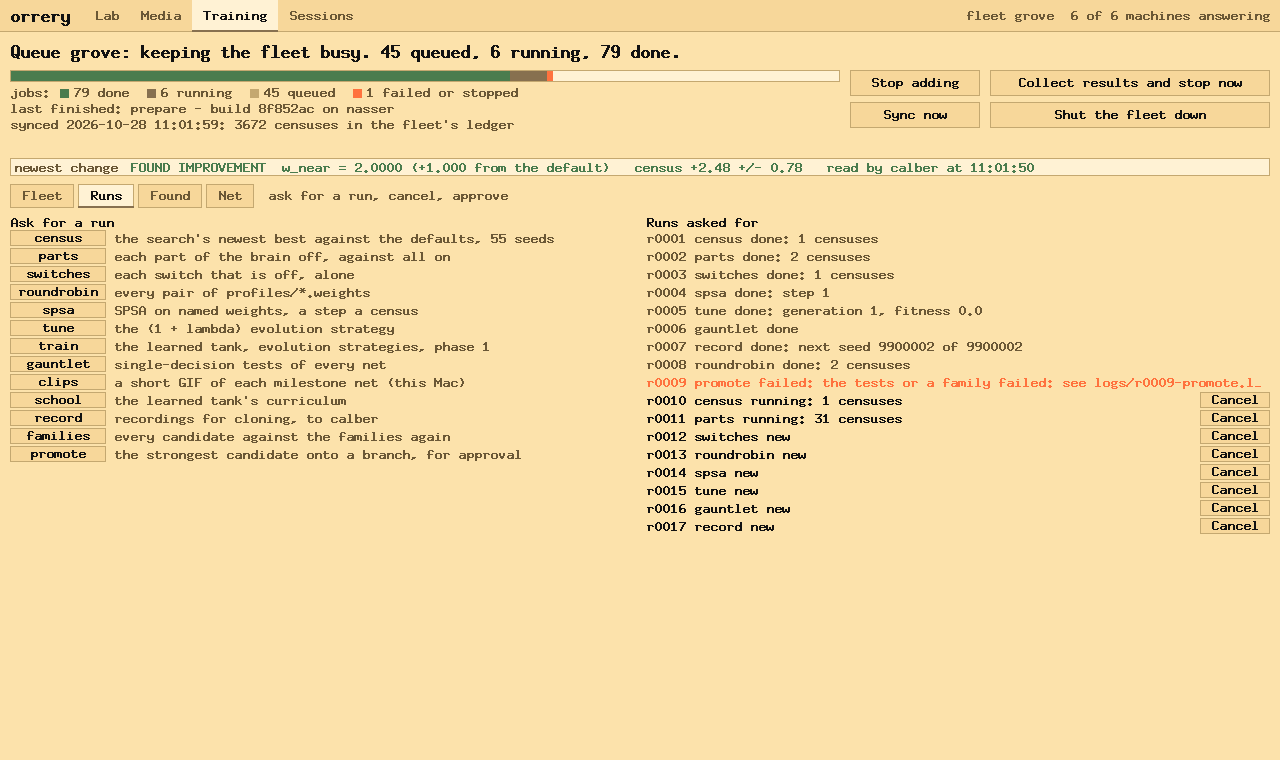
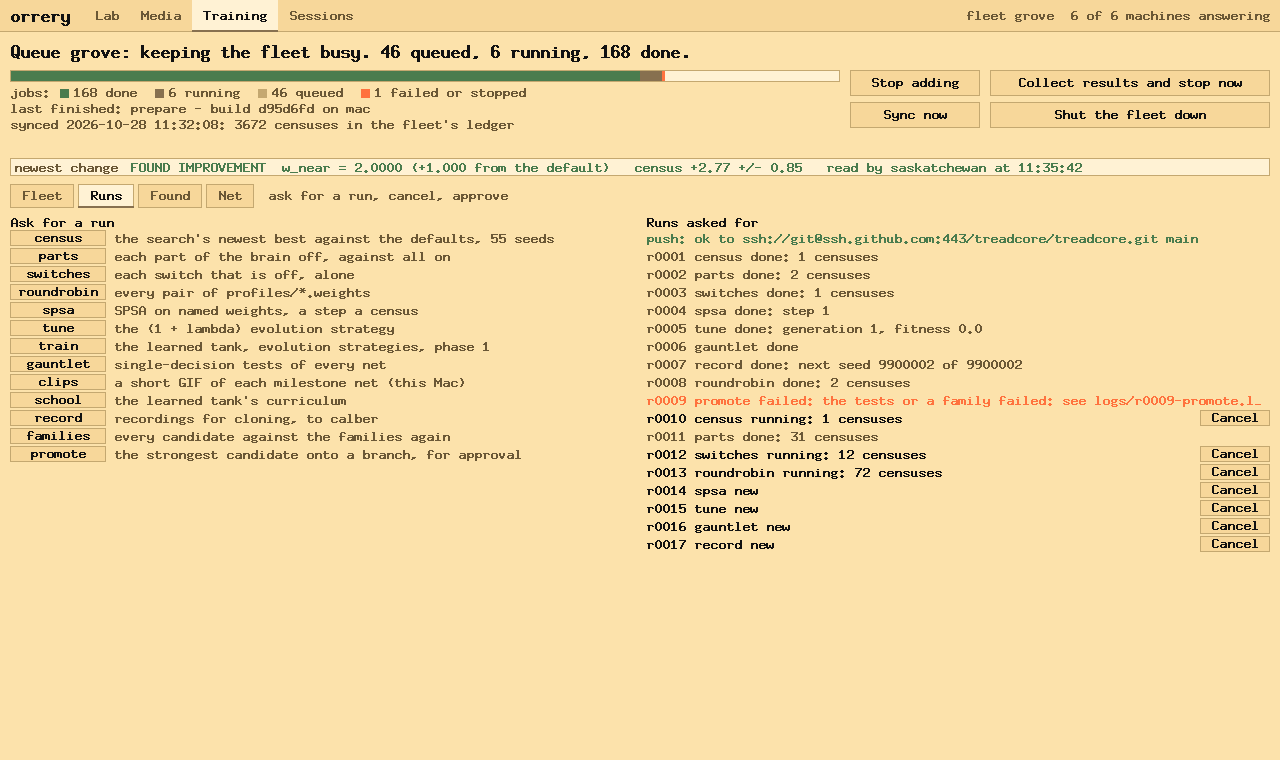
Push permission is part of a template -- Approve is a push, so a plan names where a promotion lands ("push": {"remote", "branch"}) and the coordinator must be able to push there (Paul: "it needs to be part of orrery that the template for orrery and treadcore needs to have push permission"). Checked 

diff --git a/docs/user-guide.html b/docs/user-guide.html
@@ -527,10 +527,18 @@ ol.refs li { margin-bottom: .45em; }
   every machine fast-forwards its own checkout and builds the commit once, in its own folder. A
   census plays the binary its machine built for that commit and never rebuilds (a shared build
   folder once handed a census another commit's binary; LR 117).</p>
-  <h3>Nothing is promoted by a machine</h3>
+  <h3>Nothing is promoted by a machine; Approve is a push</h3>
   <p>A candidate is prepared on a branch: its numbers written into <code>weights.rs</code>, the
   brain's tests and the families run, the commit pushed as the branch. It reaches main only when
-  a person presses Approve.</p>
+  a person presses Approve, and <b>Approve is itself a push</b>: orrery pushes the prepared commit
+  to the project's branch as a fast-forward, and every machine builds it at the next top-up.</p>
+  <p><b>So a template must have push permission.</b> Its <code>plan.json</code> names where a promotion
+  lands, <code>"push": {"remote": "origin", "branch": "main"}</code>, and the coordinator (the machine
+  running orrery) must hold a key that can push there. Orrery checks it with a dry-run push, which
+  reaches the remote and proves the key without changing anything: at every sync, before every
+  promotion and before every approval. The result is on the Runs page, green when it is permitted.
+  Without it no promotion starts, because one could never land. treadcore's is
+  <code>ssh://git@ssh.github.com:443/treadcore/treadcore.git main</code>, pushed from the Mac.</p>
 </section>
 
 <section id="interface">
@@ -632,7 +640,7 @@ ol.refs li { margin-bottom: .45em; }
 <section id="procedures">
   <p class="kicker">XIII · Operating procedures</p>
   <h2>Day to day</h2>
-  <div class="tablewrap"><table><caption>Table XIII · procedures</caption><thead><tr><th>to</th><th>do</th><th>applies to</th></tr></thead><tbody><tr><td>start</td><td>Start the queue, or <code>fleet-queue.py Q ensure</code></td><td><span class="use or">orchestration</span></td></tr><tr><td>watch</td><td>Training · Fleet; Found for results; Sessions for a machine's own state</td><td><span class="use or">orchestration</span></td></tr><tr><td>ask for a measurement</td><td>a button on Runs, or <code>new KIND k=v</code></td><td><span class="use tc">treadcore</span></td></tr><tr><td>add a machine</td><td>add it to <code>config.json</code>; it builds the newest commit and takes work</td><td><span class="use or">orchestration</span></td></tr><tr><td>set up a CUDA machine</td><td><code>sudo bash cuda-node.sh</code> on it: driver, CUDA 12.9, tmux, copal-tm</td><td><span class="use or">orchestration</span></td></tr><tr><td>take a machine out</td><td>delete it from <code>config.json</code>; its lane ends after its job</td><td><span class="use or">orchestration</span></td></tr><tr><td>bring a change into treadcore</td><td>promote, read the prepared branch, Approve</td><td><span class="use tc">treadcore</span></td></tr><tr><td>end the day</td><td>Stop adding, or Shut the fleet down</td><td><span class="use or">orchestration</span></td></tr><tr><td>resume in a new session</td><td><code>fleet-queue.py Q status</code> and <code>runs</code>; Start the queue if stopped</td><td><span class="use or">orchestration</span></td></tr></tbody></table></div>
+  <div class="tablewrap"><table><caption>Table XIII · procedures</caption><thead><tr><th>to</th><th>do</th><th>applies to</th></tr></thead><tbody><tr><td>start</td><td>Start the queue, or <code>fleet-queue.py Q ensure</code></td><td><span class="use or">orchestration</span></td></tr><tr><td>watch</td><td>Training · Fleet; Found for results; Sessions for a machine's own state</td><td><span class="use or">orchestration</span></td></tr><tr><td>ask for a measurement</td><td>a button on Runs, or <code>new KIND k=v</code></td><td><span class="use tc">treadcore</span></td></tr><tr><td>add a machine</td><td>add it to <code>config.json</code>; it builds the newest commit and takes work</td><td><span class="use or">orchestration</span></td></tr><tr><td>set up a CUDA machine</td><td><code>sudo bash cuda-node.sh</code> on it: driver, CUDA 12.9, tmux, copal-tm</td><td><span class="use or">orchestration</span></td></tr><tr><td>take a machine out</td><td>delete it from <code>config.json</code>; its lane ends after its job</td><td><span class="use or">orchestration</span></td></tr><tr><td>bring a change into treadcore</td><td>promote, read the prepared branch, Approve (a push to main)</td><td><span class="use tc">treadcore</span></td></tr><tr><td>check push permission</td><td>the push line on Runs, or <code>fleet-queue.py Q push-check</code></td><td><span class="use or">orchestration</span></td></tr><tr><td>end the day</td><td>Stop adding, or Shut the fleet down</td><td><span class="use or">orchestration</span></td></tr><tr><td>resume in a new session</td><td><code>fleet-queue.py Q status</code> and <code>runs</code>; Start the queue if stopped</td><td><span class="use or">orchestration</span></td></tr></tbody></table></div>
 </section>
 
 <section id="limits">
@@ -645,7 +653,8 @@ ol.refs li { margin-bottom: .45em; }
     <li>The tile coverage ledger and the reward-term weights are designs here, not yet code.</li>
     <li>The grove machines run no Copal fleet agent, so the Lab view sees them as off bus.</li>
     <li>Orrery's planner is treadcore's; a second project would add its own <code>tools/plans/NAME.py</code>
-    and view, and the engine and console would not change.</li>
+    and view, and the engine and console would not change. Its template must name a remote and a branch
+    the coordinator can push to, or nothing it finds can be approved.</li>
   </ul>
 </section>
 

diff --git a/tools/plans/treadcore.py b/tools/plans/treadcore.py
@@ -23,6 +23,12 @@ defaults); new jobs use the newest, and a job runs on the build it was
 planned with. Before building, a host fast-forwards its own checkout
 (~/code/treadcore) when it is clean and on main.
 
+PUSH PERMISSION. A template's plan.json names the remote and branch a
+promotion lands on ("push": {"remote": "origin", "branch": "main"}), and the
+coordinator must be able to push there: Approve is a push. It is checked by
+a dry-run push at each sync and before every promotion and approval
+(plan/push.json; `push-check`); without it no promotion starts.
+
 FOUR KINDS OF WORK share the one queue:
 
 - weights: the scripted brain's named weights (weights.rs), a census trial
@@ -669,7 +675,8 @@ class Plan:
         by = {}
         for r in csv.DictReader(open(fleet), delimiter="\t"):
             by[r["host"]] = by.get(r["host"], 0) + 1
-        summary = {"t": time.strftime("%Y-%m-%dT%H:%M:%S"), "rows": sum(by.values()), "by_host": by, "hosts": lines}
+        ps = self.push_check() if not only else load(os.path.join(self.pd, "push.json"), {})
+        summary = {"t": time.strftime("%Y-%m-%dT%H:%M:%S"), "rows": sum(by.values()), "by_host": by, "hosts": lines, "push": ps}
         save(os.path.join(out, "sync.json"), summary)
         print("sync: fleet.tsv %d rows (%s); read: %s" % (summary["rows"], ", ".join("%s %d" % kv for kv in sorted(by.items())), "; ".join(lines)))
 
@@ -1062,6 +1069,29 @@ class Plan:
         return jobs
 
 
+    # ---- push permission: what a template must have for Approve to mean anything ----
+    def push_target(self):
+        p = self.cfg.get("push") or {}
+        return p.get("remote", "origin"), p.get("branch", "main")
+
+    def push_check(self):
+        """Can this coordinator push the project's branch? A dry-run push of
+        the remote's own head to it: it reaches the remote, proves the
+        credentials, and changes nothing. Kept in plan/push.json."""
+        remote, branch = self.push_target()
+        url = run(["git", "-C", self.tc, "remote", "get-url", "--push", remote]).stdout.strip()
+        run(["git", "-C", self.tc, "fetch", "-q", remote], timeout=120)
+        head = run(["git", "-C", self.tc, "rev-parse", "%s/%s" % (remote, branch)]).stdout.strip()
+        if not url or not head:
+            ok, detail = False, "no remote %s with a branch %s in %s" % (remote, branch, self.tc)
+        else:
+            r = run(["git", "-C", self.tc, "push", "--dry-run", "--porcelain", remote, "%s:refs/heads/%s" % (head, branch)], timeout=120)
+            ok = r.returncode == 0
+            detail = "ok" if ok else (r.stderr.strip().splitlines() or ["refused"])[-1][:200]
+        st = {"ok": ok, "remote": remote, "url": url, "branch": branch, "detail": detail, "checked": time.strftime("%Y-%m-%dT%H:%M:%S")}
+        save(os.path.join(self.pd, "push.json"), st)
+        return st
+
     # ---- promotion: a candidate prepared for treadcore, approved by Paul ---------
     def evidence(self):
         """Every candidate with its weights and evidence: the census, the two
@@ -1113,6 +1143,12 @@ class Plan:
         if st["status"] in ("prepared", "approved", "rejected"):
             return []
         if st["status"] == "new":
+            # Approve pushes the branch to the project's remote: without
+            # push permission a promotion could never land, so none starts.
+            ps = self.push_check()
+            if not ps["ok"]:
+                self.rsave(rid, {"status": "failed", "why": "no push permission to %s %s (%s): give this coordinator a key that can push, then ask again" % (ps["url"] or ps["remote"], ps["branch"], ps["detail"])})
+                return []
             name = p.get("candidate", "@strongest")
             if name == "@strongest":
                 name, ev = self.strongest()
@@ -1160,9 +1196,9 @@ class Plan:
                 "cargo test -q -p treadcore-brain --release -- --ignored every_family_holds_its_floor --nocapture > $O/families-full.txt 2>&1 || { grep -E '^family|panicked|under' $O/families-full.txt; echo 'a family fell under its floor: not committed'; exit 1; }\n"
                 "grep -E '^family' $O/families-full.txt > $O/families.txt; cat $O/families.txt\n"
                 "git add source/treadcore-brain/src/weights.rs && echo %s | base64 -d > $O/msg.txt && git commit -q -F $O/msg.txt\n"
-                "git push -q origin $B\n"
+                "git push -q %s $B\n"
                 "git rev-parse HEAD > $O/commit.txt; echo \"prepared $(cat $O/commit.txt) on $B\"\n"
-            ) % (self.home, rid, branch, out, b1, b2)
+            ) % (self.home, rid, branch, out, b1, b2, self.push_target()[0])
             st = {"status": "running", "job": jid, "candidate": name, "branch": branch, "changed": changed, "evidence": {k: ev.get(k) for k in ("census", "held", "families")}}
             self.rsave(rid, st)
             return [{"id": jid, "kind": "promote", "title": "promote %s: tests and families on a branch" % name, "needs": "host:" + host,
@@ -1187,10 +1223,12 @@ class Plan:
         st = self.rstate(rid)
         if st.get("status") != "prepared" or not st.get("commit"):
             raise SystemExit("%s is not a prepared promotion (%s)" % (rid, st.get("status")))
-        r = run(["git", "-C", self.tc, "push", "origin", "%s:refs/heads/main" % st["commit"]])
+        remote, branch = self.push_target()
+        r = run(["git", "-C", self.tc, "push", remote, "%s:refs/heads/%s" % (st["commit"], branch)])
         if r.returncode != 0:
             raise SystemExit("main has moved since it was prepared (a fast-forward only): ask for the promotion again\n" + r.stderr[-300:])
-        run(["git", "-C", self.tc, "fetch", "-q", "origin"])
+        run(["git", "-C", self.tc, "fetch", "-q", remote])
+        self.push_check()
         st["status"] = "approved"
         st["detail"] = "on main at %s" % st["commit"][:7]
         st["approved"] = time.strftime("%Y-%m-%dT%H:%M:%S")
@@ -1297,6 +1335,10 @@ if __name__ == "__main__":
         print(json.dumps(p.runs_status(), indent=1))
     elif cmd == "approve":
         p.approve(sys.argv[3])
+    elif cmd == "push-check":
+        st = p.push_check()
+        print("push to %s %s: %s" % (st["url"] or st["remote"], st["branch"], "ok" if st["ok"] else "NO: " + st["detail"]))
+        sys.exit(0 if st["ok"] else 1)
     elif cmd == "evidence":
         ev = p.evidence()
         for k, v in sorted(ev.items(), key=lambda kv: -(kv[1]["held_mean"] or -99)):

diff --git a/src/training.rs b/src/training.rs
@@ -146,6 +146,9 @@ pub struct Queue {
     pub lead_hosts: Vec<(String, i64, i64)>,
     /// The runs a person asked for.
     pub runs: Vec<RunRow>,
+    /// Push permission to the project's branch: (ok, "url branch", detail).
+    /// Approve is a push, so a template must have it.
+    pub push: Option<(bool, String, String)>,
 }
 
 /// One coefficient one census moved: what, to what, how far from its
@@ -338,6 +341,9 @@ impl Model {
                         _ => None,
                     })
                     .collect(),
+                push: q.get("push").filter(|p| p.get("ok").is_some()).map(|p| {
+                    (p.get("ok").and_then(|b| b.as_bool()).unwrap_or(false), format!("{} {}", s(p, "url"), s(p, "branch")), s(p, "detail"))
+                }),
                 runs: arr(q, "runs")
                     .iter()
                     .map(|r| RunRow { id: s(r, "id"), kind: s(r, "kind"), status: s(r, "status"), detail: if s(r, "why").is_empty() { s(r, "detail") } else { s(r, "why") } })
@@ -680,6 +686,14 @@ fn draw_runs_page(ui: &mut Ui, at: Rect, q: &Queue, st: &mut State) {
     let mut y = at.y;
     ui.label(rx, y, "Runs asked for", &F8X13, t.ink);
     y += lh;
+    // Approve pushes to the project's branch: say whether this machine can.
+    let (pushline, pc) = match &q.push {
+        Some((true, at, _)) => (format!("push: ok to {}", at), t.up),
+        Some((false, at, why)) => (format!("push: NOT PERMITTED to {} ({}); Approve cannot land", at, why), t.alarm),
+        None => ("push: not checked yet (Sync now checks it)".to_string(), t.dim),
+    };
+    ui.label_in(rx, y, rw, &pushline, &F8X13, pc);
+    y += lh + 2;
     if q.runs.is_empty() {
         ui.label_in(rx, y, rw, "none yet", &F8X13, t.dim);
     }

diff --git a/tools/fleet-queue.py b/tools/fleet-queue.py
@@ -26,6 +26,7 @@ a keeper that keeps it all running, and two ways to stop.
     tools/fleet-queue.py DIR cancel RID      a run takes no more jobs; its queued
                                              jobs leave the queue
     tools/fleet-queue.py DIR approve RID     a prepared promotion becomes main
+    tools/fleet-queue.py DIR push-check      can this machine push the project's branch?
     tools/fleet-queue.py DIR status [--json]
     tools/fleet-queue.py DIR add JOB.json    put a job on the queue by hand
 
@@ -714,6 +715,10 @@ def main(argv):
         # Paul's word on a prepared promotion: the planner moves main to it.
         r = subprocess.run(["bash", "-c", "%s approve %s" % (q.config()["planner"], shlex.quote(argv[2]))], text=True)
         q.event("approved" if r.returncode == 0 else "approve failed", run=argv[2])
+        sys.exit(r.returncode)
+    elif cmd == "push-check":
+        # Can this coordinator push the project's branch (Approve is a push)?
+        r = subprocess.run(["bash", "-c", "%s push-check" % q.config()["planner"]], text=True)
         sys.exit(r.returncode)
     elif cmd == "cancel":
         rid = argv[2]

diff --git a/tools/plans/treadcore-view.py b/tools/plans/treadcore-view.py
@@ -155,6 +155,10 @@ def queue():
     q["name"] = os.path.basename(os.path.abspath(QDIR))
     q.update(ticker())
     q["runs"] = runs()
+    try:
+        q["push"] = json.load(open(os.path.join(QDIR, "plan", "push.json")))
+    except (OSError, ValueError):
+        q["push"] = None
     s = read(os.path.join(QDIR, "plan", "summary.json"))
     if s:
         try:

diff --git a/docs/fleet-train.md b/docs/fleet-train.md
@@ -99,7 +99,8 @@ shutdown, and how often to gather:
  "history": "build/ledger/fleet.tsv",
  "weights": {"seeds": 55, "secs": 900, "map": "all", "seed0": 20000000,
              "held_seeds": 400, "held_seed0": 60000000},
- "families": {"converge": ["build/fleet-sync/saskatchewan/converge/20261026-181011"], "queue": true, "batch": 8}}
+ "families": {"converge": ["build/fleet-sync/saskatchewan/converge/20261026-181011"], "queue": true, "batch": 8},
+ "push": {"remote": "origin", "branch": "main"}}
 ```
 
 - **`commit`.** `origin/main` is read again, after a fetch, at every
@@ -154,6 +155,29 @@ The same from a shell:
 Q=~/code/treadcore/build/queue/grove; F="python3 $HOME/code/orrery/tools/fleet-queue.py $Q"
 $F ensure; $F status; $F stop-adding; $F resume-adding; $F stop-now; $F sync; $F shutdown-now
 ```
+
+### Push permission: what a template must have
+
+A promotion reaches the project only by a push. A prepared promotion becomes
+the project's branch when Approve pushes it, as a fast-forward. So a template
+must say where it lands, and the coordinator must be able to push there:
+
+```json
+"push": {"remote": "origin", "branch": "main"}
+```
+
+- **Checking.** Orrery checks the permission with a dry-run push of the
+  remote's own head to that branch. That reaches the remote, proves the
+  key, and changes nothing. It runs at every sync, before every promotion
+  and before every approval, and the result is kept in `plan/push.json`.
+- **On screen.** The Runs page shows it: green "push: ok to URL BRANCH", or
+  red when it is not permitted.
+- **Without it,** no promotion starts.
+- **By hand:** `fleet-queue.py $Q push-check`.
+
+treadcore's: `ssh://git@ssh.github.com:443/treadcore/treadcore.git main`,
+from the Mac. A machine with no key that can push may still run the queue's
+censuses, but not promote.
 
 ### 3. Gathering: sync
 
